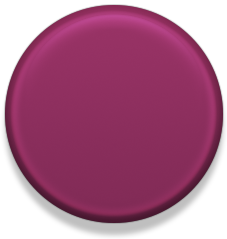
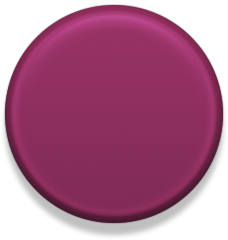
Buttons now appear pressed when interacted with

diff --git a/iOS/GBBackgroundView.m b/iOS/GBBackgroundView.m
@@ -32,6 +32,7 @@ static void positionView(UIImageView *view, CGPoint position)
 {
     NSMutableSet<UITouch *> *_touches;
     UIImageView *_dpadView;
+    UIImageView *_dpadShadowView;
     UIImageView *_aButtonView;
     UIImageView *_bButtonView;
     UIImageView *_startButtonView;
@@ -45,6 +46,8 @@ static void positionView(UIImageView *view, CGPoint position)
     if (!self) return nil;
     _touches = [NSMutableSet set];
     _dpadView = [[UIImageView alloc] initWithImage:[UIImage imageNamed:@"dpad"]];
+    _dpadShadowView = [[UIImageView alloc] initWithImage:[UIImage imageNamed:@"dpadShadow"]];
+    _dpadShadowView.hidden = true;
     _aButtonView = [[UIImageView alloc] initWithImage:[UIImage imageNamed:@"button"]];
     _bButtonView = [[UIImageView alloc] initWithImage:[UIImage imageNamed:@"button"]];
     _startButtonView = [[UIImageView alloc] initWithImage:[UIImage imageNamed:@"button2"]];
@@ -57,6 +60,8 @@ static void positionView(UIImageView *view, CGPoint position)
     [self addSubview:_startButtonView];
     [self addSubview:_selectButtonView];
     [self addSubview:_gbView];
+    
+    [_dpadView addSubview:_dpadShadowView];
     return self;
 }
 
@@ -90,6 +95,7 @@ static void positionView(UIImageView *view, CGPoint position)
     double factor = [UIScreen mainScreen].scale;
     double buttonRadiusSquared = 36 *  36 * factor * factor;
     double dpadRadiusSquared = 75 *  75 * factor * factor;
+    bool dpadHandled = false;
     for (UITouch *touch in _touches) {
         CGPoint point = [touch locationInView:self];
         point.x *= factor;
@@ -106,36 +112,67 @@ static void positionView(UIImageView *view, CGPoint position)
         else if (CGPointSquaredDistance(point, _layout.selectLocation) <= buttonRadiusSquared) {
             mask |= GB_KEY_SELECT_MASK;
         }
-        else if (CGPointSquaredDistance(point, _layout.dpadLocation) <= dpadRadiusSquared) {
+        else if (!dpadHandled && CGPointSquaredDistance(point, _layout.dpadLocation) <= dpadRadiusSquared) {
+            dpadHandled = true; // Don't handle the dpad twice
             double angle = CGPointAngle(point, _layout.dpadLocation);
             signed quantizedAngle = round(angle / M_PI * 6);
             if (quantizedAngle < 0) {
                 quantizedAngle += 12;
             }
             switch (quantizedAngle) {
+                case 12:
                 case 0 : mask |= GB_KEY_RIGHT_MASK; break;
                 case 1 : mask |= GB_KEY_RIGHT_MASK | GB_KEY_DOWN_MASK; break;
                 case 2 : mask |= GB_KEY_DOWN_MASK; break;
                     
                 case 3 : mask |= GB_KEY_DOWN_MASK; break;
                 case 4 : mask |= GB_KEY_LEFT_MASK | GB_KEY_DOWN_MASK; break;
+                case 5 : mask |= GB_KEY_LEFT_MASK; break;
+                    
                 case 6 : mask |= GB_KEY_LEFT_MASK; break;
+                case 7 : mask |= GB_KEY_LEFT_MASK | GB_KEY_UP_MASK; break;
+                case 8 : mask |= GB_KEY_UP_MASK; break;
                     
-                case 7 : mask |= GB_KEY_LEFT_MASK; break;
-                case 8 : mask |= GB_KEY_LEFT_MASK | GB_KEY_UP_MASK; break;
-                case 9 : mask |= GB_KEY_UP_MASK; break;
-                    
-                case 10: mask |= GB_KEY_UP_MASK; break;
-                case 11: mask |= GB_KEY_RIGHT_MASK | GB_KEY_UP_MASK; break;
-                case 12: mask |= GB_KEY_RIGHT_MASK; break;
+                case 9: mask |= GB_KEY_UP_MASK; break;
+                case 10: mask |= GB_KEY_RIGHT_MASK | GB_KEY_UP_MASK; break;
+                case 11: mask |= GB_KEY_RIGHT_MASK; break;
             }
         }
     }
-    GB_set_key_mask(_gbView.gb, mask);
-    if (mask & ~_lastMask) {
-        [[GBHapticManager sharedManager] doTapHaptic];
+    if (mask != _lastMask) {
+        _aButtonView.image      = [UIImage imageNamed:(mask & GB_KEY_A_MASK)?      @"buttonPressed"  : @"button"];
+        _bButtonView.image      = [UIImage imageNamed:(mask & GB_KEY_B_MASK)?      @"buttonPressed"  : @"button"];
+        _startButtonView.image  = [UIImage imageNamed:(mask & GB_KEY_START_MASK) ? @"button2Pressed" : @"button2"];
+        _selectButtonView.image = [UIImage imageNamed:(mask & GB_KEY_SELECT_MASK)? @"button2Pressed" : @"button2"];
+        
+        bool hidden = false;
+        bool diagonal = false;
+        double rotation = 0;
+        switch (mask & (GB_KEY_RIGHT_MASK | GB_KEY_DOWN_MASK | GB_KEY_LEFT_MASK | GB_KEY_UP_MASK)) {
+            case GB_KEY_RIGHT_MASK: break;
+            case GB_KEY_RIGHT_MASK | GB_KEY_DOWN_MASK: diagonal = true; break;
+            case GB_KEY_DOWN_MASK: rotation = M_PI_2; break;
+            case GB_KEY_LEFT_MASK | GB_KEY_DOWN_MASK: diagonal = true; rotation = M_PI_2; break;
+            case GB_KEY_LEFT_MASK: rotation = M_PI; break;
+            case GB_KEY_LEFT_MASK | GB_KEY_UP_MASK: diagonal = true; rotation = M_PI; break;
+            case GB_KEY_UP_MASK: rotation = -M_PI_2; break;
+            case GB_KEY_RIGHT_MASK | GB_KEY_UP_MASK: diagonal = true; rotation = -M_PI_2; break;
+            default:
+                hidden = true;
+        }
+        
+        _dpadShadowView.hidden = hidden;
+        if (!hidden) {
+            _dpadShadowView.image = [UIImage imageNamed:diagonal? @"dpadShadowDiagonal" : @"dpadShadow"];
+            _dpadShadowView.transform = CGAffineTransformMakeRotation(rotation);
+        }
+        
+        GB_set_key_mask(_gbView.gb, mask);
+        if (mask & ~_lastMask) {
+            [[GBHapticManager sharedManager] doTapHaptic];
+        }
+        _lastMask = mask;
     }
-    _lastMask = mask;
 }
 
 - (BOOL)isMultipleTouchEnabled
